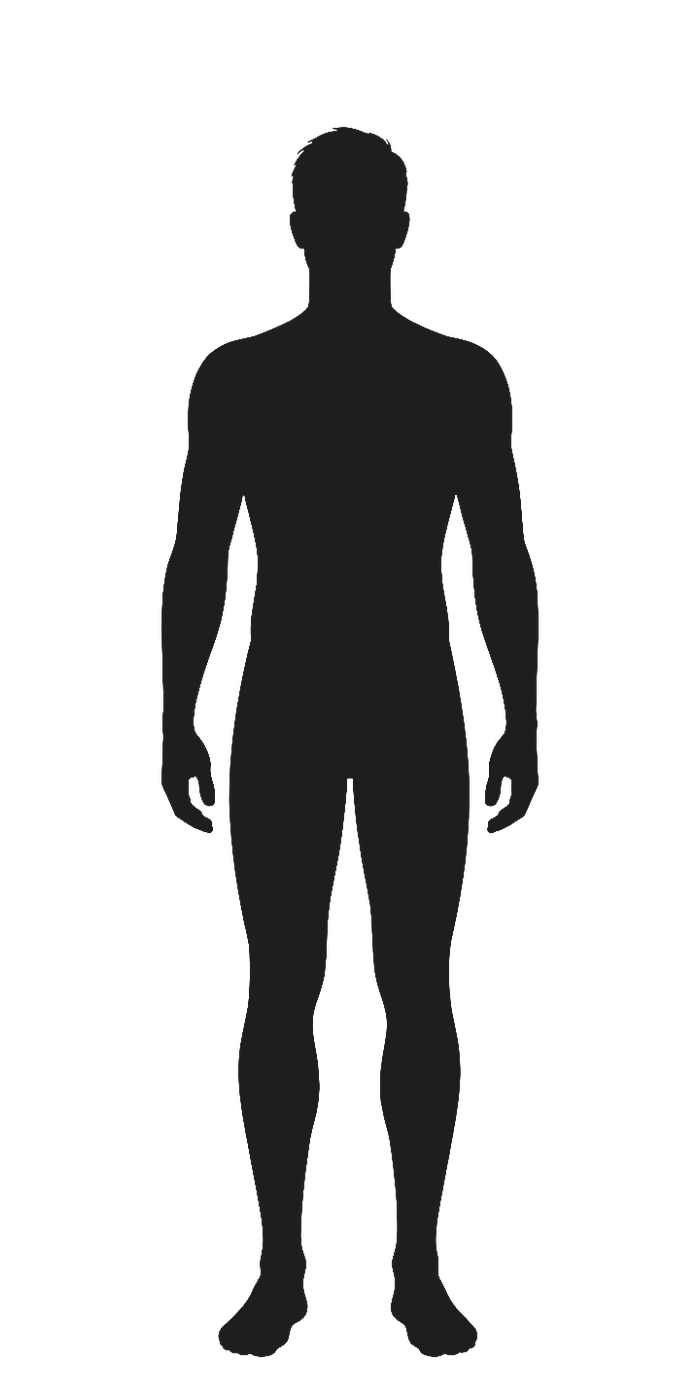
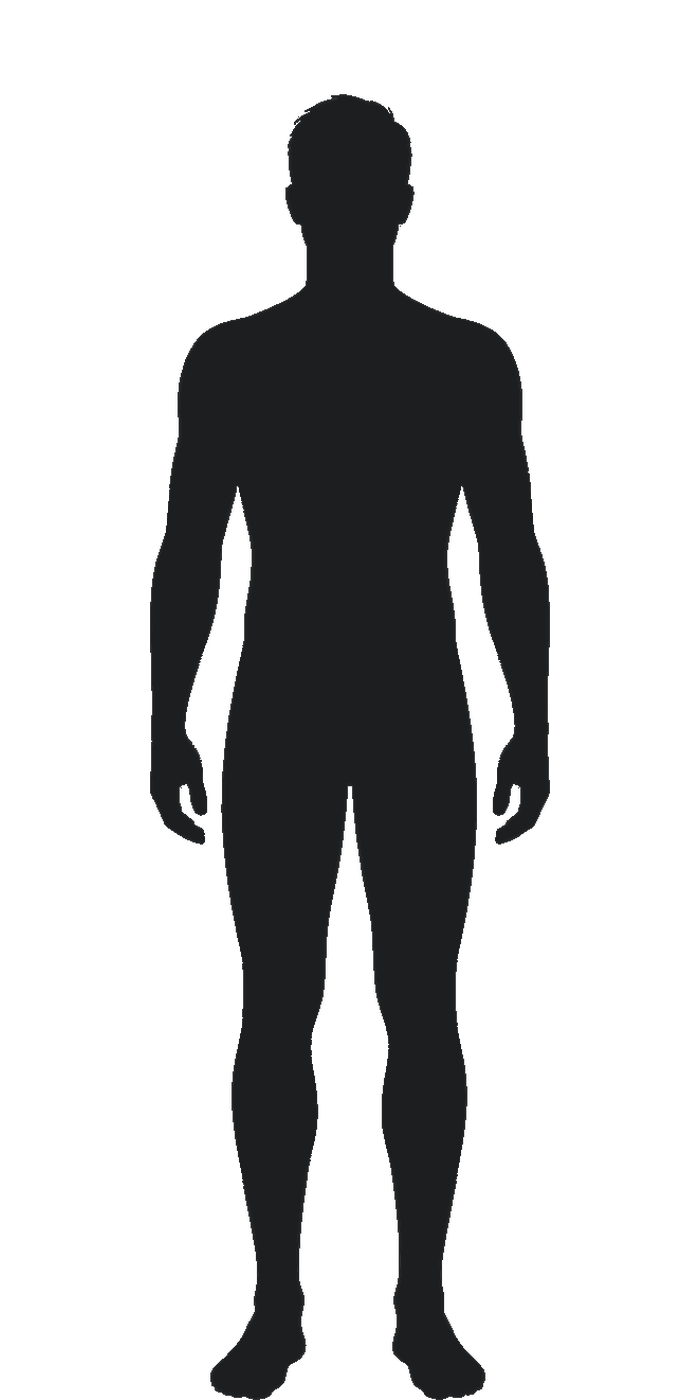
align silhouette bottoms

diff --git a/style.css b/style.css
@@ -1219,3 +1219,24 @@ button:disabled {
     height: 280px;
   }
 }
+
+/* v19 bottom-aligned silhouette */
+.character-visual {
+  align-items: flex-end !important;
+}
+
+.figure-image {
+  display: block;
+  align-self: flex-end;
+  object-position: center bottom !important;
+  vertical-align: bottom;
+  margin: 0 auto;
+}
+
+.characters {
+  align-items: flex-end !important;
+}
+
+.character {
+  align-self: flex-end;
+}

diff --git a/index.html b/index.html
@@ -9,7 +9,7 @@
   <meta name="apple-mobile-web-app-capable" content="yes" />
   <meta name="apple-mobile-web-app-title" content="Tohkami" />
   <meta name="apple-mobile-web-app-status-bar-style" content="black-translucent" />
-  <link rel="stylesheet" href="style.css?v=18" />
+  <link rel="stylesheet" href="style.css?v=19" />
 </head>
 <body>
   <main class="app">
@@ -260,6 +260,6 @@
         .catch(console.warn);
     }
   </script>
-  <script src="app.js?v=18"></script>
+  <script src="app.js?v=19"></script>
 </body>
 </html>